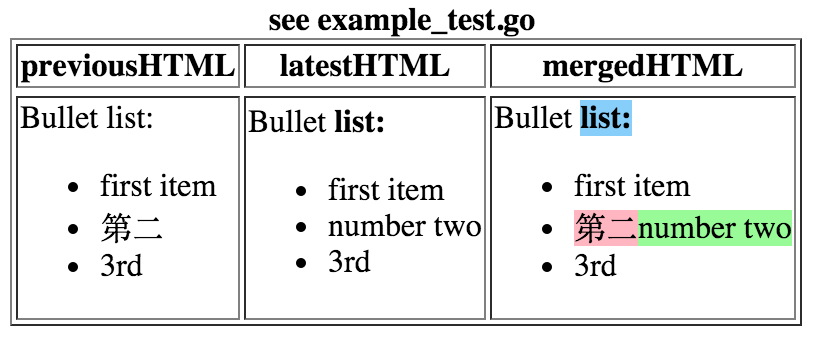
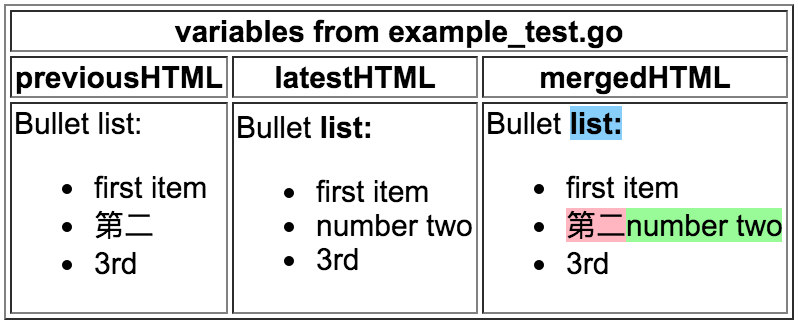
make image less naff

Changed region(s): [[0.0, 0.0, 1.0, 0.9877]]

diff --git a/example_test.html b/example_test.html
@@ -3,17 +3,16 @@
 <head></head>
 
 <body>
-    <table border=1>
-        <caption><b>see example_test.go</b>
-            <br>
-        </caption>
+    <table border=1 style="font: 15px arial, sans-serif;">
+        <tr><th colspan=3>
+           <b>variables from example_test.go</b>
+       </th></tr>
         <tr>
             <th>previousHTML</th>
             <th>latestHTML</th>
             <th>mergedHTML
             </th>
         </tr>
-        <tr></tr>
         <tr>
             <td>
                 <p>Bullet list:</p>

diff --git a/README.md b/README.md
@@ -12,7 +12,7 @@ Usage:
 		CleanTags:    []string{""},
 	}
 	res, err := cfg.HTMLdiff([]string{previousHTML, latestHTML})
-    mergedHTML := res[0]
+	mergedHTML := res[0]
 ```
 ![see example_test.go](example_test.png)
 
